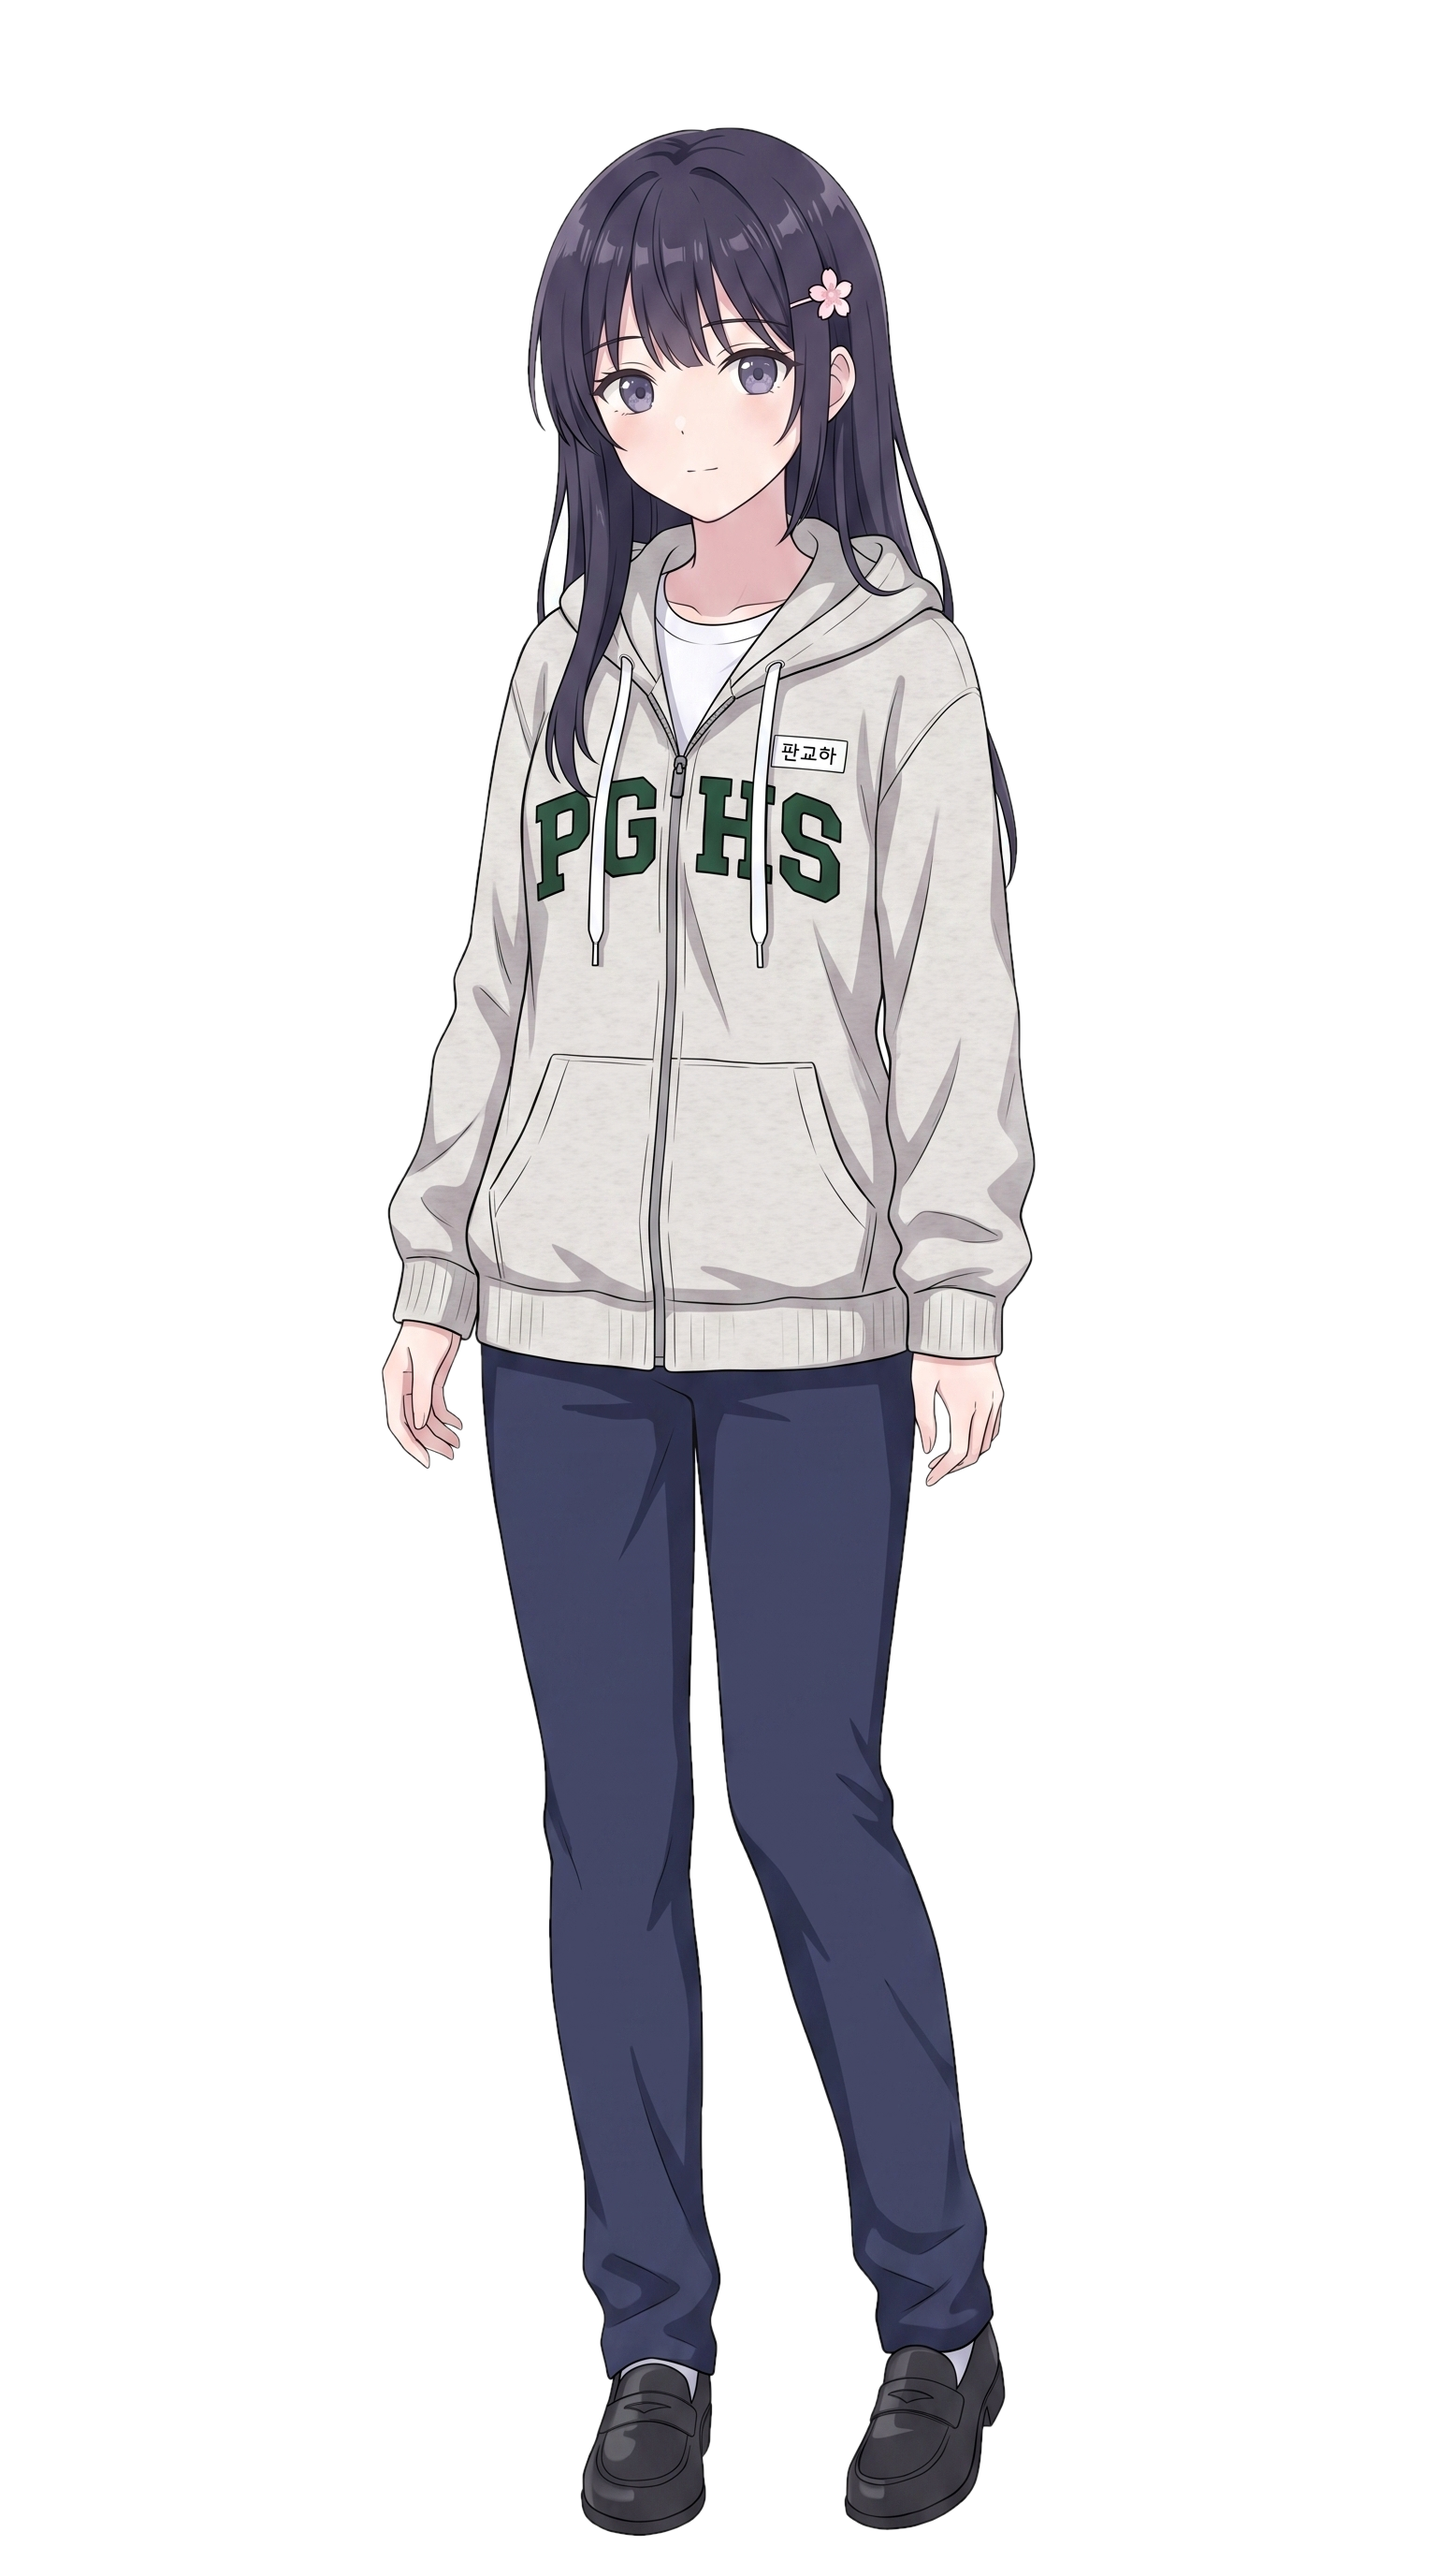
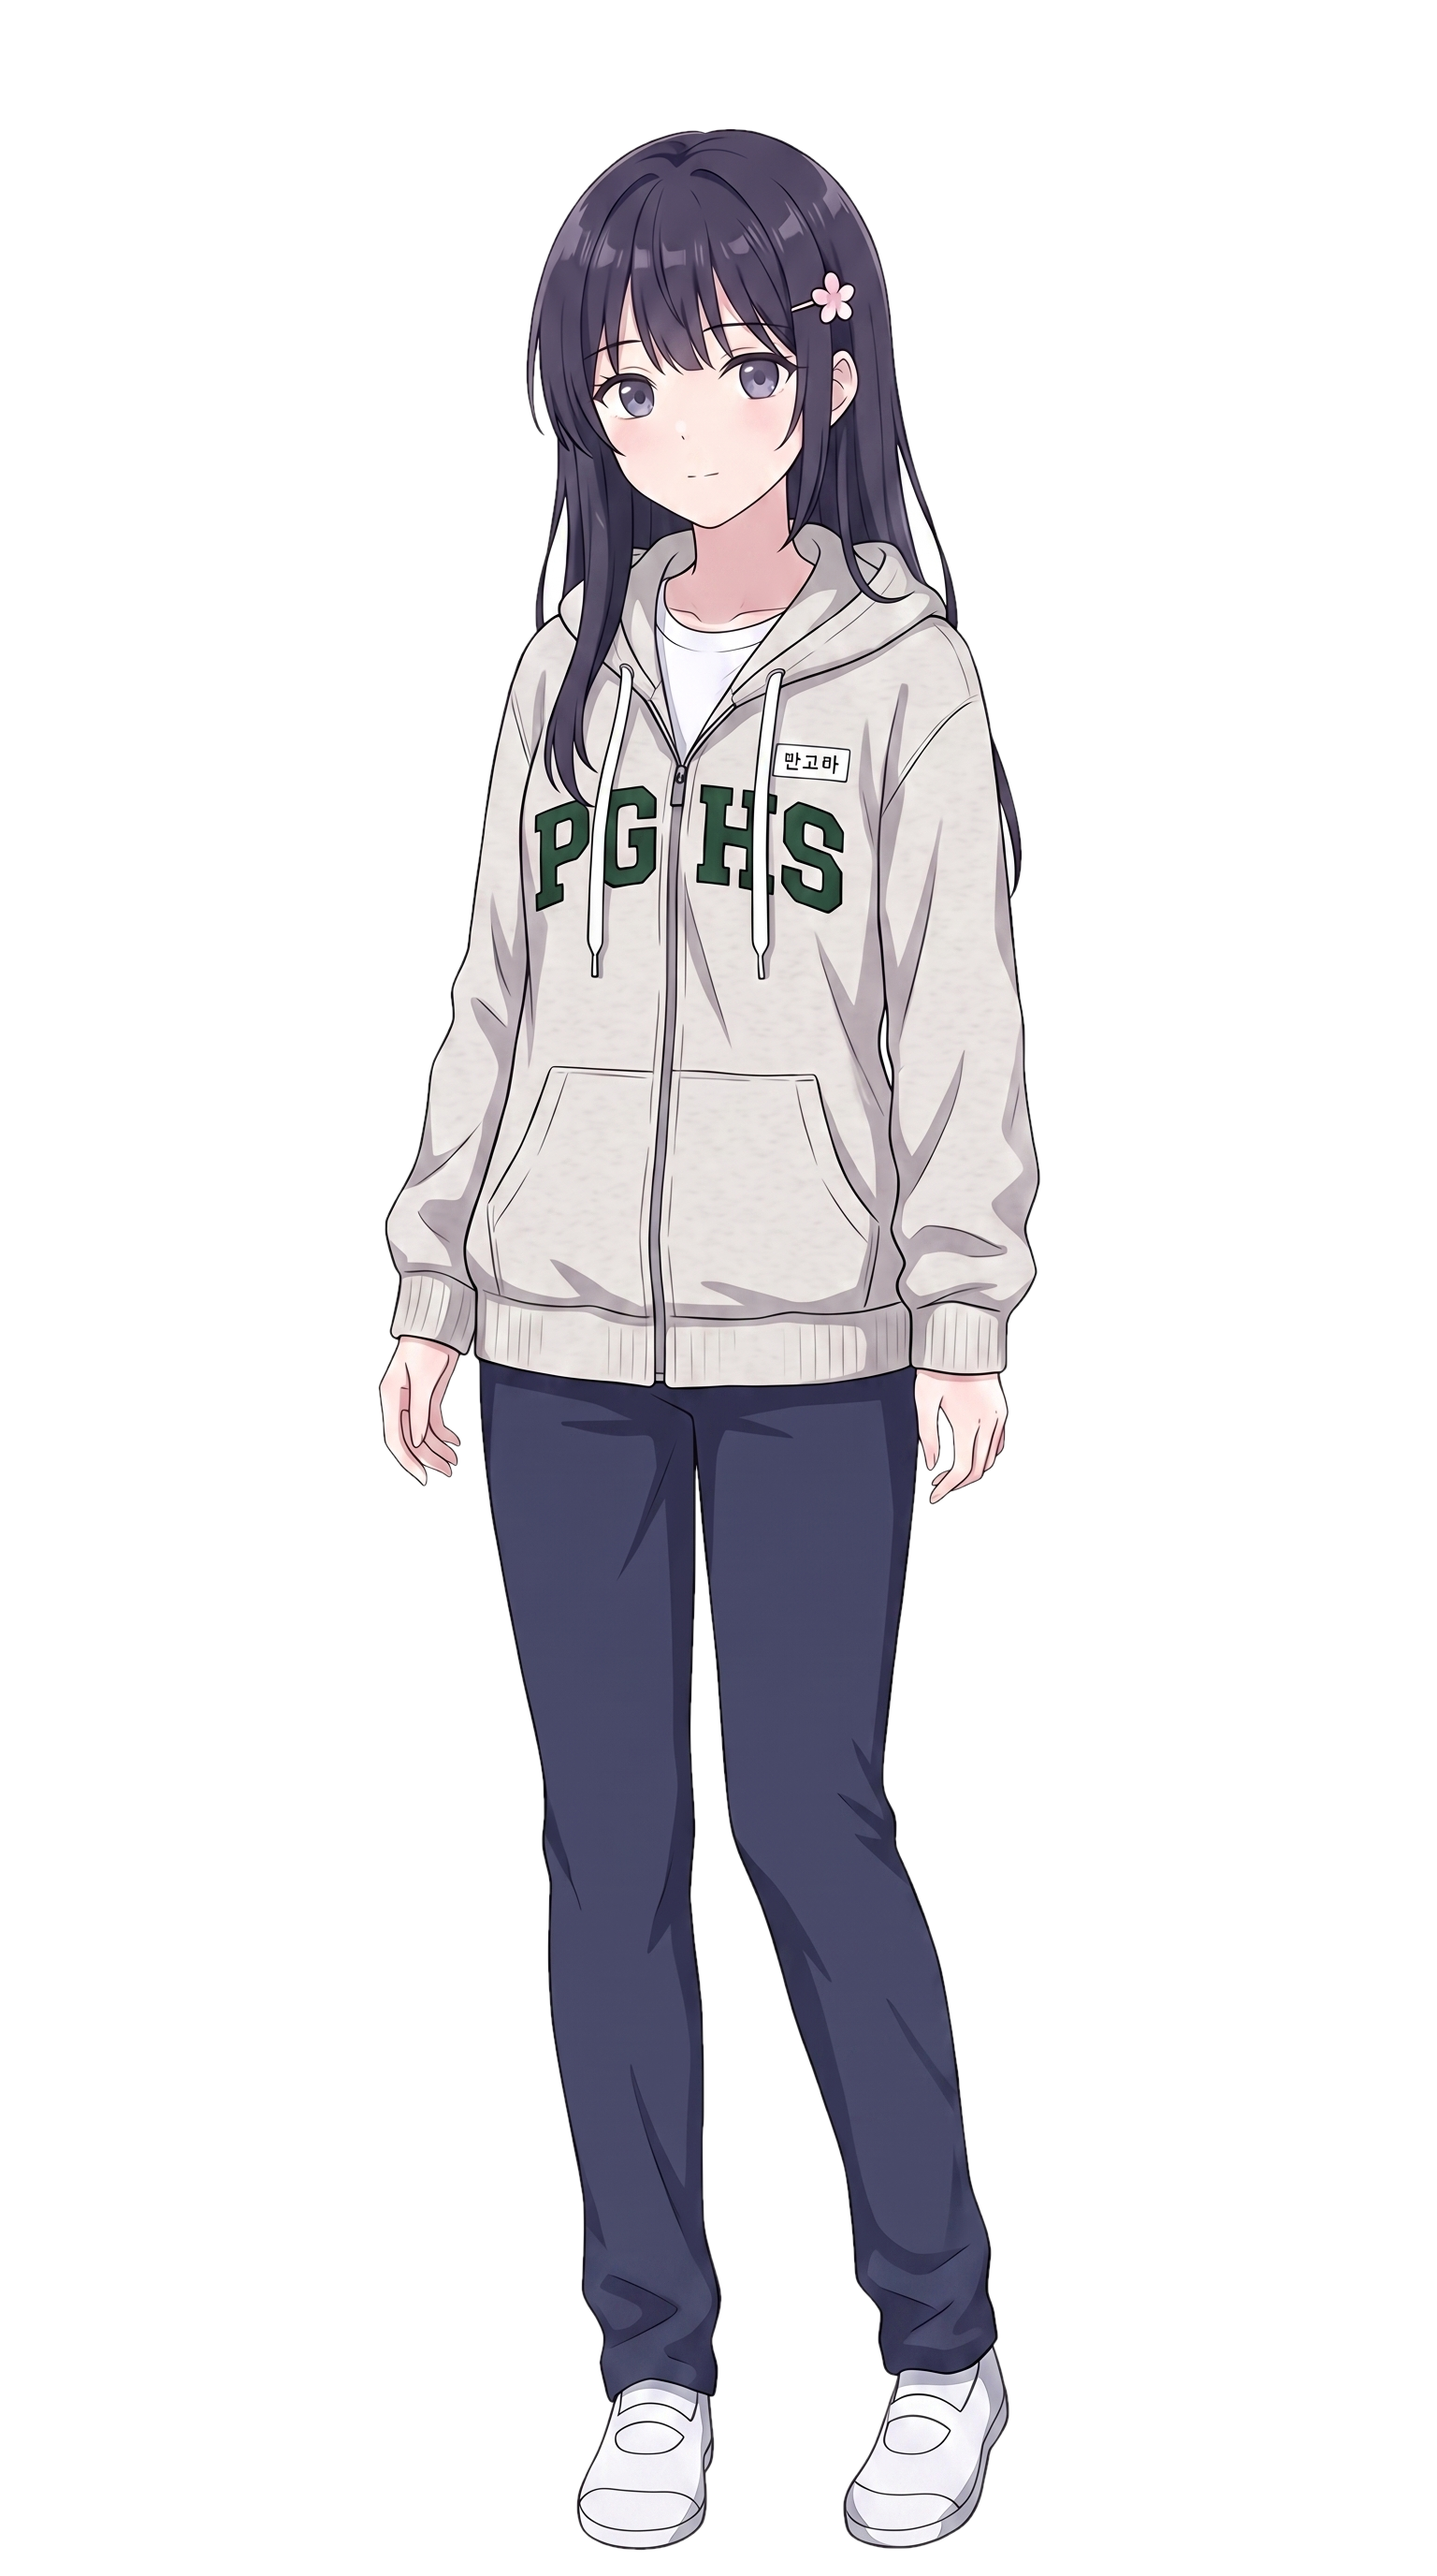
후드 스탠딩에 미소 컷 추가하고 신발을 실내화로 교체
체육시간 씬에 남아 있던 두 가지를 마무리했다.

신발
  처음 생성물은 교복 로퍼였다. 체육관 바닥에 구두는 맞지 않아, 같은
  컷을 기준 이미지로 다시 넣어 흰 실내화와 흰 발목양말로만 바꿨다.

미소 컷
  신발을 고친 무표정 컷을 다시 기준 이미지로 삼아 표정만 바꿨다.
  덕분에 두 컷의 의상과 포즈가 완전히 같다.
  정렬 오차는 최대 18px 로, 세로 2752px 기준 0.65% 다. 앞서 컷 교체를
  순수 크로스페이드로 바꿔 둔 덕에 이 정도면 위치가 흔들려 보이지 않는다.
  두 컷 모두 crop 을 full 로 통일했다. 프레이밍이 달라지면 교체할 때
  인물이 움직여 보인다.

  씬 04 표정 흐름
    calm → calm → smile → calm → smile → smile → calm → smile

배경 제거는 앞선 컷과 같은 방식이다. 테두리 flood fill 이라 인물 안쪽
흰색(티셔츠, 드로우코드, 양말, 실내화)은 그대로 남는다.

검증 (Playwright)
- 7개 씬 진행 후 엔딩 도달
- 씬 04 에서 무표정/미소 두 컷 모두 표시 확인
- 에셋 404 없음, JS 오류 없음
- 레이아웃 1440x900 정확히 채움

Claude-Session: https://claude.ai/code/session_01CyenTyubBWMyKgLLeLZEaP

diff --git a/script/story.js b/script/story.js
@@ -157,7 +157,7 @@ window.STORY = {
         { t: 'narr', text: '그 애는 체육복 위에 회색 후드집업을 걸치고 있었다. 가슴에 진초록으로 PGHS.' },
         { t: 'say', who: 'unknown', look: 'hoodie_calm', text: '여기 왜 이렇게 추워. 나만 추운가?' },
         { t: 'say', who: 'mc', text: '4월인데 체육관만 아직 3월인 것 같아.' },
-        { t: 'say', who: 'unknown', look: 'hoodie_calm', text: '체육관은 계절이 한 박자 늦게 와. 소리처럼.' },
+        { t: 'say', who: 'unknown', look: 'hoodie_smile', text: '체육관은 계절이 한 박자 늦게 와. 소리처럼.' },
         { t: 'narr', text: '그러더니 관중석 아래로 허리를 숙였다. 수업 중에도 아직 찾고 있었다.' },
         { t: 'say', who: 'unknown', look: 'hoodie_calm', text: '지난주 체육시간에도 여기 왔었거든. 혹시나 해서.' },
         {
@@ -169,7 +169,7 @@ window.STORY = {
               text: '같이 볼게. 나는 반대쪽 끝부터.',
               affection: 0,
               react: [
-                { t: 'say', who: 'unknown', look: 'hoodie_calm', text: '오, 든든한데.' },
+                { t: 'say', who: 'unknown', look: 'hoodie_smile', text: '오, 든든한데.' },
                 { t: 'narr', text: '우리는 체육관을 반씩 나눠 가졌다. 넓이가 그제야 실감났다.' }
               ]
             },
@@ -177,7 +177,7 @@ window.STORY = {
               text: '그 후드, 잘 어울린다.',
               affection: 0,
               react: [
-                { t: 'say', who: 'unknown', look: 'hoodie_calm', text: '이거? 3년째 입는 건데.' },
+                { t: 'say', who: 'unknown', look: 'hoodie_smile', text: '이거? 3년째 입는 건데.' },
                 { t: 'narr', text: '그 애는 소매를 한 번 당겨 내렸다. 가슴의 글자가 조금 낡아 있었다.' }
               ]
             },
@@ -192,7 +192,7 @@ window.STORY = {
         },
         { t: 'narr', text: '결국 키링은 나오지 않았다. 대신 체육관 바닥의 낡은 라인들을 처음으로 다 세어 봤다.' },
         { t: 'sfx', id: 'school_bell' },
-        { t: 'say', who: 'unknown', look: 'hoodie_calm', text: '다음 시간엔 어디 볼까?' },
+        { t: 'say', who: 'unknown', look: 'hoodie_smile', text: '다음 시간엔 어디 볼까?' },
         { t: 'narr', text: '찾는 일이 어느새 약속처럼 되어 있었다.' },
         { t: 'chara', show: false }
       ]

diff --git a/js/game.js b/js/game.js
@@ -20,8 +20,10 @@
     shy: { src: 'assets/ch_waist_blush.png', crop: 'waist' },
     blush: { src: 'assets/ch_bust_blush.png', crop: 'bust' },
     // 체육시간(씬 04) 전용. 교복 스탠딩을 기준 이미지로 의상만 바꿔 만든 컷이라
-    // 얼굴·머리·비율·포즈가 다른 컷과 같다. 표정 변형은 아직 없다.
-    hoodie_calm: { src: 'assets/ch_stand_hoodie_calm.png', crop: 'full' }
+    // 얼굴·머리·비율·포즈가 다른 컷과 같다. 미소 컷은 무표정 컷을 다시
+    // 기준 이미지로 삼아 표정만 바꿨고, 정렬 오차는 최대 18px 이다.
+    hoodie_calm: { src: 'assets/ch_stand_hoodie_calm.png', crop: 'full' },
+    hoodie_smile: { src: 'assets/ch_stand_hoodie_smile.png', crop: 'full' }
   };
 
   const PRELOAD_ASSETS = [

diff --git a/PROJECT_MEMORY.md b/PROJECT_MEMORY.md
@@ -82,7 +82,11 @@
   - 생성 결과는 흰 배경 RGB였다. 다른 스탠딩과 맞추려고 테두리 flood fill로 배경을 빼고 RGBA로 저장했다. 인물 안쪽 흰색(티셔츠·드로우코드·양말)은 테두리와 이어져 있지 않아 그대로 남는다.
   - 프레이밍 검증: 가로중심 49.3%(기존 48.6%), 머리 위 여백 4.9%(기존과 동일).
   - 명찰은 `판교하`로 넣었다. 실물 사진의 명찰은 실존 인물 이름이라 쓰지 않는다.
-  - **표정 변형이 아직 없다.** 크레딧 소진으로 미소 컷을 못 만들어 씬 전체가 `hoodie_calm` 하나를 쓴다. 신발도 교복 로퍼 그대로라 체육관과는 어색하다. 둘 다 추후 보완 대상.
+  - 신발은 흰 실내화다. 처음 생성물은 교복 로퍼였는데 체육관 바닥과 맞지 않아 같은 컷을 기준 이미지로 다시 넣어 신발만 바꿨다.
+- 스탠딩 `hoodie_smile` = `assets/ch_stand_hoodie_smile.png`.
+  - `hoodie_calm`(신발 수정본)을 기준 이미지로 삼아 **표정만** 바꿨다. 정렬 오차는 최대 18px(세로 2752px 기준 0.65%)이라 크로스페이드에서 어긋나 보이지 않는다.
+  - 두 컷 모두 `crop: 'full'`로 통일했다. 프레이밍이 같아야 컷 교체 시 위치가 흔들리지 않는다.
+  - 씬 04의 표정 흐름: calm → calm → smile → calm → smile → smile → calm → smile.
 - 배경 `bg06_gym_afternoon.png`는 **임시 생성본**이다. 사용자가 실제 체육관을 촬영해 AI 변환한 이미지로 교체할 예정이다. 파일명을 그대로 덮어쓰면 된다.
 
 ## 대사 전환
